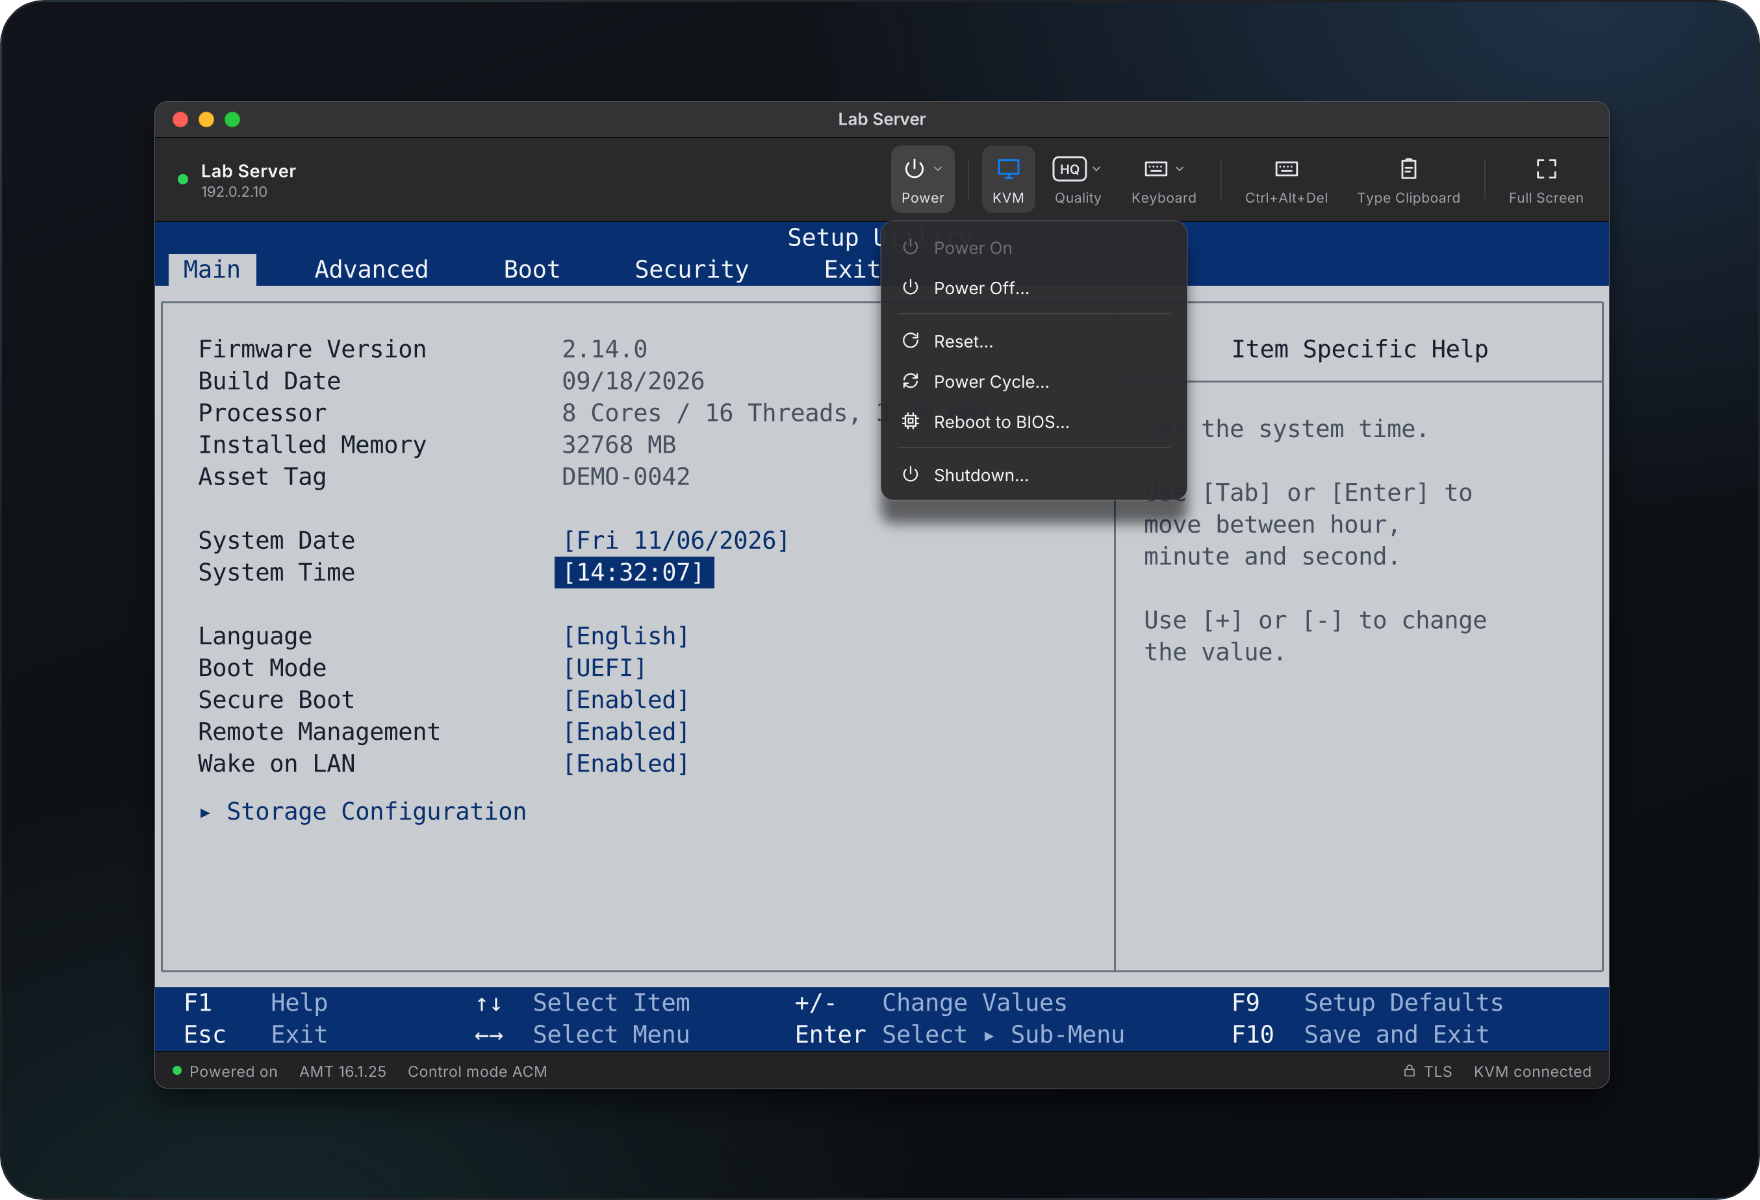
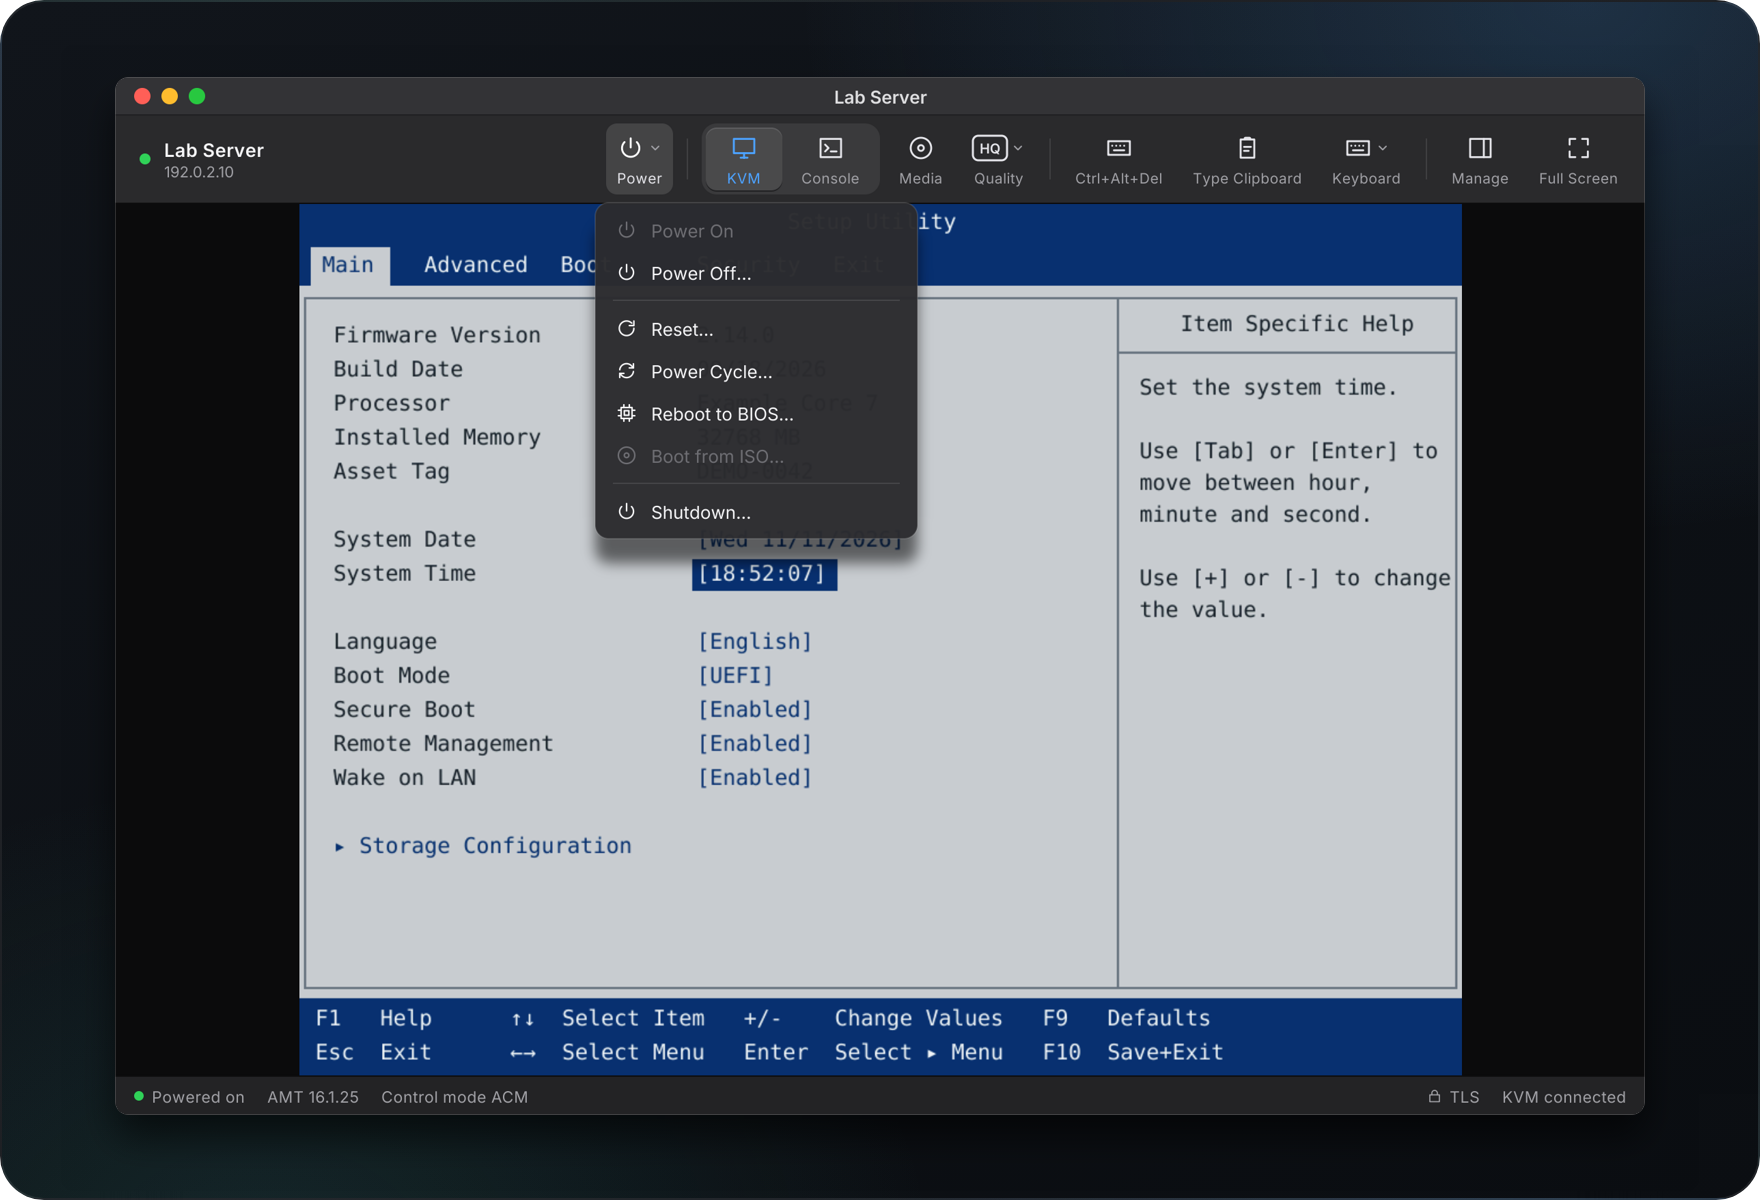
docs: update README, screenshots and preview for v1.1.0
Describe media mounting (OS installation and file sharing), the serial
console, device management with logs, AMT settings and users, and the
confirmation of risky changes. New screenshots of the toolbar, power menu,
settings, device management, event log, AMT settings, media menu and
console; the preview shows the new toolbar and features.

diff --git a/README.md b/README.md
@@ -1,8 +1,8 @@
 # OpenLAMT
 
-![OpenLAMT: power control, remote screen and favorites for Intel AMT devices, native on macOS, Windows and Linux](preview.png)
+![OpenLAMT: remote power, remote screen and remote media for Intel AMT devices, native on macOS, Windows and Linux](preview.png)
 
-**A local desktop app for Intel AMT, native on macOS, Windows and Linux: switch your devices on and off and use their screen, without a browser or a server.**
+**A local desktop app for Intel AMT, native on macOS, Windows and Linux: switch your devices on and off, use their screen and serial console, boot them from an ISO and manage their AMT settings, without a browser or a server.**
 
 <br>
 
@@ -38,21 +38,55 @@ Favorites keep each device with its settings, and a colored dot shows its power 
 
 ### Power and remote screen in one window
 
-![Device window with a remote BIOS screen over KVM and the power menu open](screenshots/power.png)
+![Device window with a remote BIOS screen over KVM and the Power menu open](screenshots/power.png)
 
-Each device opens in its own window with remote keyboard, video and mouse (KVM). Power on, power off, reset, power cycle, reboot into the BIOS or shut down from the same toolbar.
+Each device opens in its own window with remote keyboard, video and mouse (KVM). Power on, power off, reset, power cycle, reboot into the BIOS, boot from a mounted ISO or shut down from the same toolbar.
+
+### Boot from an ISO or a folder
+
+![The Media menu with an ISO mounted, Boot from ISO on next start ticked and the transfer rate in the status bar](screenshots/media.png)
+
+**Media** mounts an ISO file on the device as a CD drive (IDE-R). A folder works as well: OpenLAMT turns it into an ISO first. Tick **Boot from ISO on next start**, or restart the device from the ISO right away, for example to install an operating system or run a firmware update.
+
+**Share files without a USB stick.** Mount a folder to bring files from your computer to the device, such as drivers, firmware, tools or scripts. They show up there as a read-only CD drive, with no network share to set up.
+
+### Serial console
+
+![The Console view with the serial console of a Linux server over Serial over LAN](screenshots/console.png)
+
+**Console** shows the serial console of the device over Serial over LAN (SOL), for example the login prompt of a Linux server with a serial console. Switch between **KVM** and **Console** in the toolbar, also in full screen. **Type Clipboard** works in the console too.
+
+### Device management next to the screen
+
+![Device window with the remote screen and the device management sidebar on the Hardware page](screenshots/manage.png)
+
+**Manage** opens a sidebar next to the remote screen, or a window of its own, with five pages: hardware, event log, audit log, AMT settings and user accounts. The hardware page lists system, BIOS, processor, memory, drives and the AMT version.
+
+### Event log and audit log
+
+![Event log in a window of its own with the details of one entry](screenshots/event-log.png)
+
+Both logs can be filtered by text, the event log also by severity. Click an entry to see every field in full, including the raw data. The arrow buttons and the Up and Down keys step through the list, **Copy** puts the entry on the clipboard.
+
+### AMT settings and user accounts
+
+![Change network settings with a lockout warning and the checkbox that names the device](screenshots/amt-settings.png)
+
+Change host name and domain, ping response, Dynamic DNS, environment detection, the network address (DHCP or static), the remote features (KVM, media redirection, Serial over LAN, user consent) and the TLS certificate. Set the AMT clock to the time of your computer, or turn AMT off on the network. **Users** adds, edits and deletes AMT accounts with their permissions and changes the admin account.
+
+OpenLAMT does not lock these settings away. A change that can cut you off from the device says what is at stake and only goes ahead once you tick a checkbox with the device's name.
 
 ### Trust on first connect
 
 ![The Trust this device dialog with the SHA-256 fingerprint of the device certificate](screenshots/trust.png)
 
-The first TLS connection shows the certificate fingerprint of the device. OpenLAMT remembers it and stops the connection if it ever changes.
+The first TLS connection shows the certificate fingerprint of the device. OpenLAMT remembers it and stops the connection if it ever changes. If you switch the TLS certificate of the device in OpenLAMT, it updates the saved fingerprint itself.
 
 ### Your language, your look
 
-![Settings with language, appearance, color blind mode, update check and KVM options](screenshots/settings.png)
+![Settings with language, appearance, color blind mode, update check, KVM options and hidden messages](screenshots/settings.png)
 
-English or German, light, dark or system appearance, and status colors for red-green color blindness. Type the clipboard into the remote system in 16 keyboard layouts.
+English or German, light, dark or system appearance, and status colors for red-green color blindness. Type the clipboard into the remote system in 16 keyboard layouts. **Reset Warnings** brings back every message you hid with "Don't show again".
 
 ## Details
 
@@ -61,6 +95,7 @@ English or German, light, dark or system appearance, and status colors for red-g
 - Devices with Intel AMT enabled and reachable over the network (ports `16992` to `16995`).
 - macOS on Apple Silicon (arm64), Windows on x64 or Linux on x64 (`.deb`). macOS on Intel, Windows on arm64 and Linux on arm64 are not supported.
 - Linux: a Secret Service provider such as GNOME Keyring or KeePassXC to save passwords.
+- Media and Console use the AMT features media redirection (IDE-R) and Serial over LAN (SOL). If one of them is disabled on the device, OpenLAMT asks whether to enable it.
 
 ### Manual install
 
@@ -93,17 +128,29 @@ English or German, light, dark or system appearance, and status colors for red-g
 
 ### Configuration
 
-Everything is set in the app: **Settings** (the sliders icon next to **Quick Connect**) holds language, appearance, color blind mode, the update check, the poll interval, KVM quality, KVM auto-connect, the KVM idle timeout and the keyboard layout for typing the clipboard. A favorite can override keyboard, KVM quality and KVM auto-connect for its device. The language changes the next time OpenLAMT starts.
+Everything is set in the app: **Settings** (the sliders icon next to **Quick Connect**) holds language, appearance, color blind mode, the update check, the poll interval, KVM quality, KVM auto-connect, the KVM idle timeout, the keyboard layout for typing the clipboard and **Reset Warnings** for messages hidden with "Don't show again". A favorite can override keyboard, KVM quality and KVM auto-connect for its device. The language changes the next time OpenLAMT starts.
 
 ### Keyboard
 
 Key combinations that the local operating system reserves, such as Ctrl+Alt+Del, Cmd+Tab and, on Windows, Win+L, do not reach the remote system. For this reason the device window has its own **Ctrl+Alt+Del** button.
 
+### Media
+
+- Mount ISO images (CD and DVD). Floppy and disk images (`.img`) are not supported.
+- A mounted folder becomes an ISO with the folder's files, each smaller than 4 GiB. Large folders take a moment to prepare. The device can boot from a folder over UEFI if it contains `EFI/BOOT/BOOTX64.EFI`, not in legacy BIOS mode.
+- An image stays mounted until you unmount it or close the device window. Closing the window or quitting OpenLAMT with an image mounted asks first.
+- On macOS and Windows, **Mount ISO** and **Mount Folder** open the file dialog of the system; on Linux, OpenLAMT shows its own.
+
 ### What it runs and touches
 
-- **Programs:** none. Links (release page, support, credits) open in your default browser.
-- **Files:** favorites in `openlamt/favorites.json` in your user configuration folder (`~/Library/Application Support` on macOS, `%AppData%` on Windows, `~/.config` on Linux). Passwords and trusted certificate fingerprints in the system keychain (macOS Keychain, Windows Credential Manager, Secret Service on Linux), under the services `openlamt` and `openlamt-fingerprint`. A downloaded update goes to `~/Downloads`, only when you ask for it.
-- **Network:** your AMT devices on ports `16992` (WS-Man) or `16993` (WS-Man over TLS), and `16994` or `16995` (KVM redirection). Once per start, a few seconds after the main window opens, one request to `api.github.com` for the latest release; turn it off with **Check for updates** in Settings. The update package is downloaded from GitHub only when you click it.
+- **Programs:** none. On macOS, the Media file dialog uses `osascript`. Links open in your browser.
+- **Files:**
+    - `openlamt/favorites.json` in your configuration folder (`~/Library/Application Support`, `%AppData%` or `~/.config`)
+    - passwords and certificate fingerprints in the system keychain (services `openlamt` and `openlamt-fingerprint`)
+    - temporary ISOs of mounted folders in `OpenLAMT/ider` in your cache folder (`~/Library/Caches`, `%LocalAppData%` or `~/.cache`), deleted on unmount
+    - downloaded updates in `~/Downloads`, only when you ask for one
+- **Your devices:** OpenLAMT changes nothing you did not start, and risky changes need a confirmation.
+- **Network:** your AMT devices on ports `16992` to `16995`. One update check per start to `api.github.com`, which you can turn off in Settings.
 
 ### Updates
 
@@ -112,7 +159,7 @@ At start OpenLAMT asks GitHub for its latest release. If it is newer, a window s
 ### Removing
 
 1. Delete the app (`OpenLAMT.app`, the folder with `OpenLAMT.exe`, or `sudo apt remove openlamt`).
-2. Delete the `openlamt` folder in your user configuration folder.
+2. Delete the `openlamt` folder in your user configuration folder and, if present, the `OpenLAMT` folder in your user cache folder.
 3. Optionally delete the keychain entries of the services `openlamt` and `openlamt-fingerprint`.
 
 ### Development
@@ -131,7 +178,7 @@ To create a macOS application bundle, install the Fyne command line tool in the 
 ```sh
 go install fyne.io/tools/cmd/fyne@v1.7.4
 fyne package --os darwin --src cmd/openlamt \
-  --app-id io.github.srv02.openlamt --name OpenLAMT --app-version 1.0.0 --release
+  --app-id io.github.srv02.openlamt --name OpenLAMT --app-version 1.1.0 --release
 codesign --force --deep -s - OpenLAMT.app
 ```
 
@@ -139,12 +186,12 @@ To build the Linux `.deb` from the binary (`dpkg-deb` is required):
 
 ```sh
 go build -ldflags '-s -w' -o openlamt ./cmd/openlamt
-packaging/linux/build-deb.sh openlamt 1.0.0 OpenLAMT_1.0.0_amd64.deb
+packaging/linux/build-deb.sh openlamt 1.1.0 OpenLAMT_1.1.0_amd64.deb
 ```
 
 ## Credits
 
-The KVM client is a Go port of Intel's [ui-toolkit](https://github.com/device-management-toolkit/ui-toolkit) (Apache-2.0). Power control and WS-Man through [go-wsman-messages](https://github.com/device-management-toolkit/go-wsman-messages) (Apache-2.0); code derived from [MeshCommander](https://github.com/Ylianst/MeshCommander) (Apache-2.0). Built with [Fyne](https://github.com/fyne-io/fyne) (BSD-3-Clause) and [go-keyring](https://github.com/zalando/go-keyring) (MIT), set in [Inter](https://github.com/rsms/inter) (OFL-1.1). Every component and its license is listed in [NOTICE](NOTICE).
+The KVM, Serial over LAN and IDE-R clients are Go ports of Intel's [ui-toolkit](https://github.com/device-management-toolkit/ui-toolkit) (Apache-2.0). Power control, device management and WS-Man through [go-wsman-messages](https://github.com/device-management-toolkit/go-wsman-messages) (Apache-2.0); code derived from [MeshCommander](https://github.com/Ylianst/MeshCommander) (Apache-2.0). Built with [Fyne](https://github.com/fyne-io/fyne) (BSD-3-Clause), [fyne-io/terminal](https://github.com/fyne-io/terminal) for the console (BSD-3-Clause), [go-keyring](https://github.com/zalando/go-keyring) (MIT) and, for the file dialogs on macOS and Windows, [zenity](https://github.com/ncruces/zenity) (MIT), set in [Inter](https://github.com/rsms/inter) (OFL-1.1). Every component and its license is listed in [NOTICE](NOTICE).
 
 ## License
 
